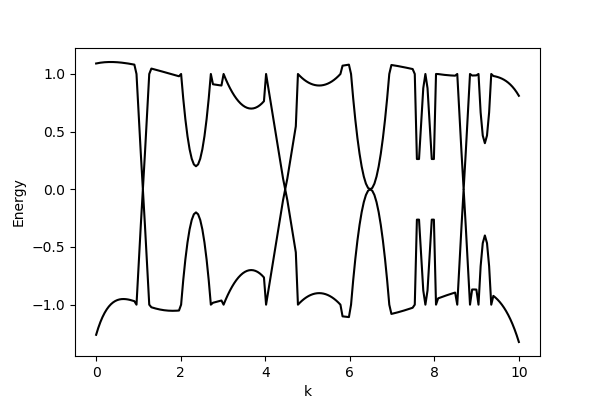
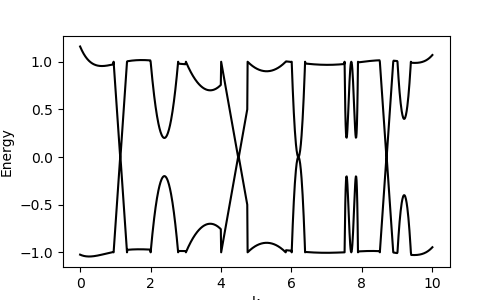
Add test and test results

diff --git a/lib/fake.py b/lib/fake.py
@@ -2,53 +2,53 @@
 import numpy as np
 np.random.seed(0)
 
-k = np.linspace(0, 10, 200)
+k = np.linspace(0, 10, 1000)
 dk = k[1] - k[0]
 p = np.poly1d(np.polyfit(k, 1 + 1.0*(np.random.rand(len(k)) - .5), 8))
-fake_E_upper = p(k)
+E_upper = p(k)
 p = np.poly1d(np.polyfit(k, -1 + 1.0*(np.random.rand(len(k)) - .5), 8))
-fake_E_lower = p(k)
+E_lower = p(k)
 
 def place_crossing(position, width=.4):
     E = np.interp(np.linspace(0, 1, int(width/dk)), [0, .49, .5, .51, 1], [1, 0, 0, 0, 1])
 
     for i,j in enumerate(range(position, position+len(E))):
-        fake_E_upper[j] = E[i]
-        fake_E_lower[j] = -E[i]
+        E_upper[j] = E[i]
+        E_lower[j] = -E[i]
 
 def place_parabola(position, width=.4, gap=0):
     k = np.linspace(-1, 1, int(width/dk))
     E = (1-gap)*k**2 + gap
 
     for i,j in enumerate(range(position, position+len(E))):
-        fake_E_upper[j] = E[i]
-        fake_E_lower[j] = -E[i]
+        E_upper[j] = E[i]
+        E_lower[j] = -E[i]
 
 def place_mexican(position, width=.4):
     k = [0, .25, .5, .75, 1]
-    E = [1, 0.4, 1, 0.4, 1]
+    E = [1, .4, 1, .4, 1]
     p = np.poly1d(np.polyfit(k, E, 4))
     k = np.linspace(0, 1, int(width/dk))
 
     for i,j in enumerate(range(position, position+len(k))):
-        fake_E_upper[j] = p(k[i])
-        fake_E_lower[j] = -p(k[i])
+        E_upper[j] = p(k[i])
+        E_lower[j] = -p(k[i])
 
-place_crossing(19, width=.4)
-place_parabola(40, width=.8, gap=.2)
-place_parabola(60, width=1.4, gap=.7)
-place_crossing(80, width=1.0)
-place_parabola(95, width=1.1, gap=.9)
-place_parabola(120, width=1.0, gap=0)
-place_mexican(150, width=.6)
-place_crossing(170, width=0.4)
-place_parabola(180, width=.4, gap=.4)
+place_crossing(int(19/200*len(k)), width=.4)
+place_parabola(int(40/200*len(k)), width=.8, gap=.2)
+place_parabola(int(60/200*len(k)), width=1.4, gap=.7)
+place_crossing(int(80/200*len(k)), width=1.0)
+place_parabola(int(95/200*len(k)), width=1.1, gap=.9)
+place_parabola(int(120/200*len(k)), width=0.4, gap=0)
+place_mexican(int(150/200*len(k)), width=.4)
+place_crossing(int(170/200*len(k)), width=0.4)
+place_parabola(int(180/200*len(k)), width=.4, gap=.4)
 
 if __name__ == '__main__':
     import matplotlib.pyplot as plt
-    plt.figure(figsize=(6,4))
-    plt.plot(k, fake_E_upper, 'k')
-    plt.plot(k, fake_E_lower, 'k')
+    plt.figure(figsize=(5,3))
+    plt.plot(k, E_upper, 'k')
+    plt.plot(k, E_lower, 'k')
     plt.ylabel('Energy')
     plt.xlabel('k')
     plt.savefig('misc/fake_data.png')

diff --git a/create_test_index.py b/create_test_index.py
@@ -1,0 +1,53 @@
+import os
+import argparse
+from tqdm import tqdm
+from lib import vasp
+from lib.preprocessing import interpolate, interpolate_normalize
+from lib import fake
+import numpy as np
+from annoy import AnnoyIndex
+import matplotlib.pyplot as plt
+
+
+parser = argparse.ArgumentParser()
+parser.add_argument('--width', type=float, default=.4, help='sliding window width')
+parser.add_argument('--dimensions', type=int, default=16, help='number of data points for each band')
+parser.add_argument('--stride', type=int, default=1, help='number of data points to slide each window (1 means zero datapoints are skipped)')
+parser.add_argument('--trees', type=int, default=10, help='number of trees in annoy index')
+opt = parser.parse_args()
+print(opt)
+
+
+# Annoy index stores the electronic band structure with each vector corresponding to a sliding window.
+annoyindex = AnnoyIndex(int(2*opt.dimensions), metric='angular')
+
+# A lookuptable is necessary to link annoy vectors to their correct material and k-space position.
+lookuptable = []
+
+k_strided = [fake.k[i] for i in range(0, len(fake.k), opt.stride)]
+
+for window_left in k_strided:
+    window_right = window_left + opt.width
+    if window_right > np.max(fake.k):
+        break
+    selection = ((fake.k >= window_left) & (fake.k <= window_right))
+    window_k = fake.k[selection]
+    window_band_l = fake.E_lower[selection]
+    window_band_u = fake.E_upper[selection]
+    window_size = np.max(window_k) - np.min(window_k)
+
+    gap = np.min(window_band_u) - np.max(window_band_l)
+    window_band_l = interpolate_normalize(window_k, window_band_l, opt.dimensions)
+    window_band_u = interpolate_normalize(window_k, window_band_u, opt.dimensions)
+
+    #plt.plot(window_band_l)
+    #plt.plot(window_band_u)
+    #plt.title('k =' + str(window_left) + ' gap = '+ str( gap))
+    #plt.show()
+
+    annoyindex.add_item(len(lookuptable), np.concatenate([window_band_l, window_band_u]))
+    lookuptable.append([window_left, gap])
+
+annoyindex.build(opt.trees)
+annoyindex.save('index_test.ann')
+np.save('lookuptable_test', lookuptable)

diff --git a/test_search.py b/test_search.py
@@ -4,8 +4,12 @@ import numpy as np
 from lib import vasp
 from lib.preprocessing import interpolate_normalize, path_1D, plot_band_structure
 
+from lib import fake
+import matplotlib.pyplot as plt
+
 parser = argparse.ArgumentParser()
 parser.add_argument('--dimensions', type=int, default=16, help='number of data points for each band')
+parser.add_argument('--results', type=int, default=5, help='# of results')
 parser.add_argument('--band_index', type=int, default=0, help='band index relative to Fermi level')
 parser.add_argument('--width', type=float, default=.4, help='sliding window width')
 parser.add_argument('--pattern', required=True, help='crossing | parabola | mexican')
@@ -13,9 +17,9 @@ opt = parser.parse_args()
 print(opt)
 
 annoyindex = AnnoyIndex(int(2*opt.dimensions), metric='angular')
-annoyindex.load('index_%d.ann' % opt.band_index)
+annoyindex.load('index_test.ann')
 
-lookuptable = np.load('lookuptable_%d.npy' % opt.band_index)
+lookuptable = np.load('lookuptable_test.npy')
 
 # Define a crossing (Dirac cone) as a search pattern
 if opt.pattern == 'crossing':
@@ -40,15 +44,21 @@ else:
 
 
 # Plot search pattern
-# import matplotlib.pyplot as plt
-# plt.plot(search_upper)
-# plt.plot(search_lower)
-# plt.show()
+#plt.plot(search_upper)
+#plt.plot(search_lower)
+#plt.show()
 
+plt.plot(fake.k, fake.E_upper, 'k')
+plt.plot(fake.k, fake.E_lower, 'k')
 
 # Search
-results = annoyindex.get_nns_by_vector(search_vector, 1, search_k=-1, include_distances=True)
+results = annoyindex.get_nns_by_vector(search_vector, opt.results, search_k=-1, include_distances=True)
 for result, distance in zip(*results):
-    folder, k, gap = lookuptable[result]
+    k, gap = lookuptable[result]
     print('Angular distance =', distance, 'k =', k)
-    plot_band_structure(str(int(folder)), opt.band_index, opt.width, k)
+    plt.axvspan(k, k+opt.width, color='red', alpha=0.5)
+
+plt.ylabel('Energy')
+plt.xlabel('k')
+plt.savefig('misc/test_results_'+opt.pattern+'.png')
+plt.show()

diff --git a/create_index.py b/create_index.py
@@ -8,7 +8,6 @@ from annoy import AnnoyIndex
 
 
 parser = argparse.ArgumentParser()
-parser.add_argument('--dataset', required=True, help='folder | fake')
 parser.add_argument('--band_index', type=int, default=0, help='band index relative to Fermi level')
 parser.add_argument('--width', type=float, default=.4, help='sliding window width')
 parser.add_argument('--dimensions', type=int, default=16, help='number of data points for each band')

diff --git a/README.md b/README.md
@@ -14,7 +14,7 @@ This repository contains a data folder with a VASP calculation. You can add more
 
 Create an ANN (approximate nearest neighbours) index (see [create_index.py](create_index.py) for all options):
 ```
-python create_index.py --dataset folder --band_index -1 --width 0.4 --dimensions 16 --trees 10
+python create_index.py --band_index -1 --width 0.4 --dimensions 16 --trees 10
 ```
 
 Perform the search for a crossing/node:
@@ -29,5 +29,20 @@ This prints the angular distance and the following plot should appear:
 For reference, see the [OMDB material information](https://omdb.diracmaterials.org/material/cod/7155013). Note that the lookup table also contains information about the gap between the two bands. On the OMDB this is used to apply post-processing to the search results (e.g. filtering out gapped matches).
 
 ## Test data
-TODO
+This repo contains a fake data generator [lib/fake.py](lib/fake.py):
 ![Fake data](misc/fake_data.png)
+```
+python create_test_index.py --width 0.4 --dimensions 64 --trees 10
+```
+```
+python test_search.py --width 0.4 --results 6 --dimensions 64 --pattern crossing
+```
+![Test crossings](misc/test_results_crossing.png)
+```
+python test_search.py --width 0.4 --results 6 --dimensions 64 --pattern parabola
+```
+![Test parabola](misc/test_results_parabola.png)
+```
+python test_search.py --width 0.4 --results 1 --dimensions 64 --pattern mexican
+```
+![Test mexican](misc/test_results_mexican.png)
